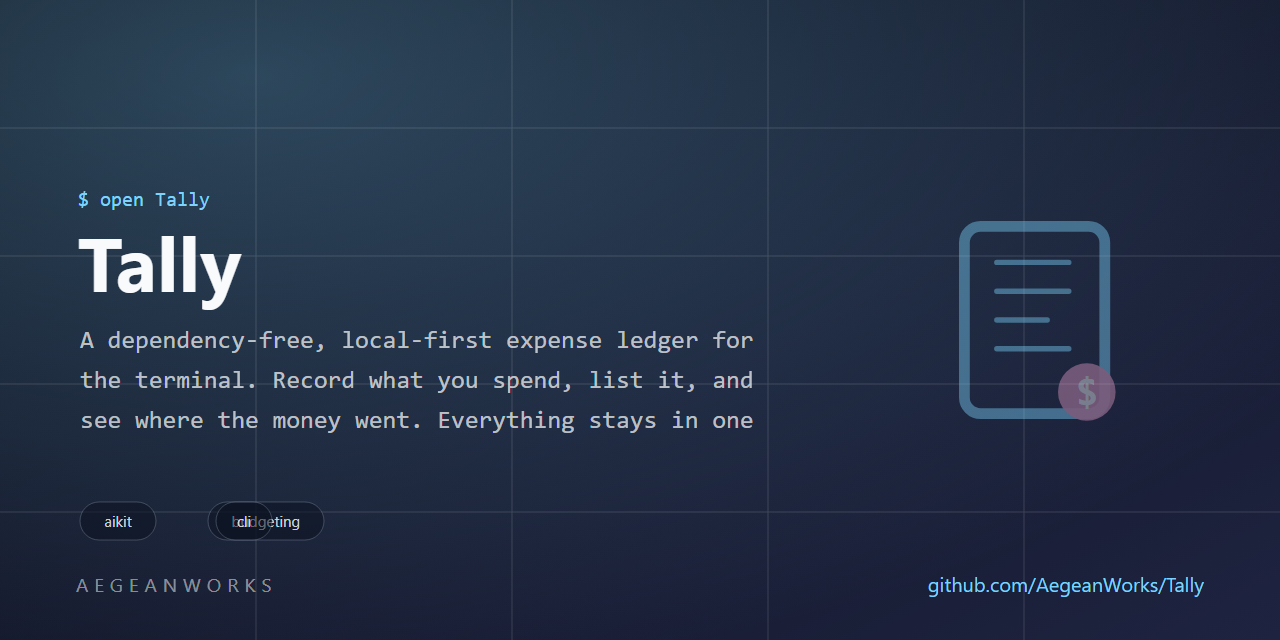
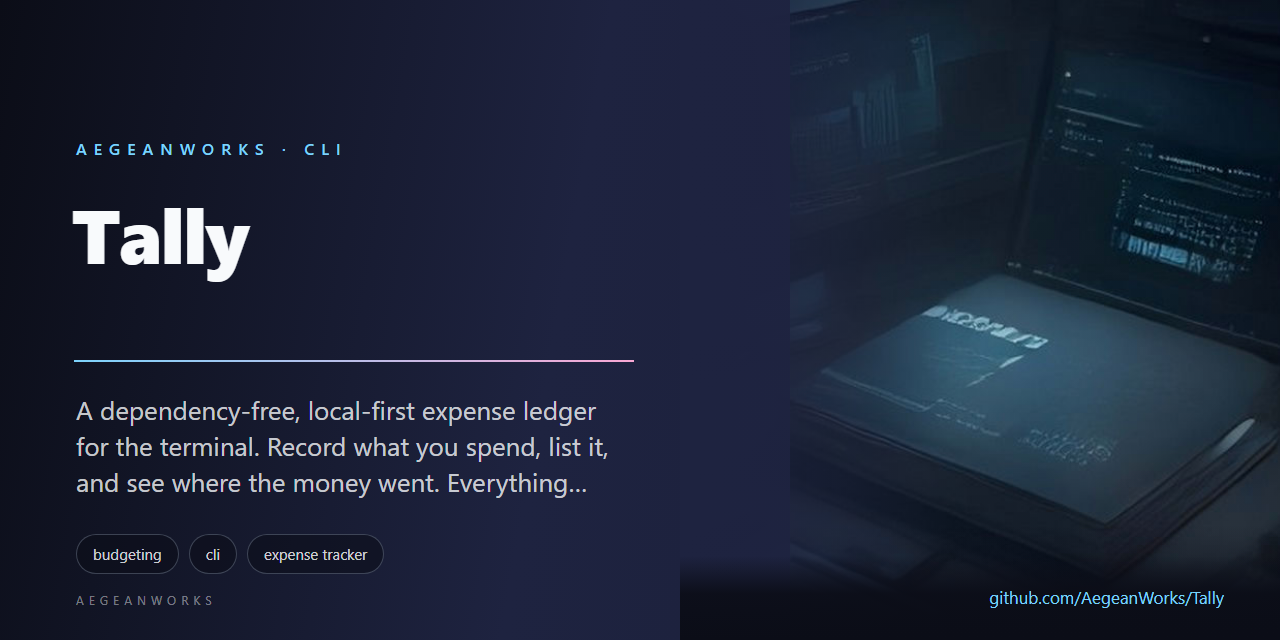
feat(brand): replace procedural marks with reviewed AI-art identities

diff --git a/README.md b/README.md
@@ -1,8 +1,8 @@
 # tally
 
 <!-- aegean:media:start -->
-<p align="center"><img src="assets/logo.svg" alt="Tally logo" width="96" height="96"></p>
-<p align="center"><img src="assets/social-preview.svg" alt="Tally social preview" width="100%"></p>
+<p align="center"><img src="assets/logo.png" alt="Tally logo" width="96" height="96"></p>
+<p align="center"><img src="assets/social-preview.png" alt="Tally social preview" width="100%"></p>
 <!-- aegean:media:end -->
 
 [![Built with AIKit](https://img.shields.io/badge/built%20with-AIKit-6f42c1)](https://github.com/AegeanWorks/AIKit)
